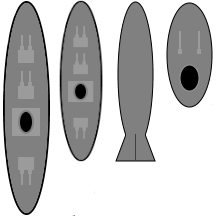
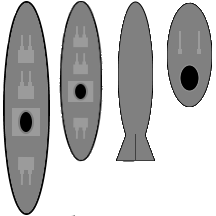
Add textures to ships

diff --git a/game_pieces/Ship.cpp b/game_pieces/Ship.cpp
@@ -1,3 +1,5 @@
+#pragma clang diagnostic push
+#pragma ide diagnostic ignored "cert-err58-cpp"
 //
 // Created by Mark on 2/16/2019.
 //
@@ -7,8 +9,17 @@
 
 #include "../include/Ship.h"
 
-RegionMap Ship::_regionMap = RegionMap(); // NOLINT(cert-err58-cpp)
+RegionMap Ship::_regionMap = RegionMap();
 int Ship::_shipID = 0;
+sf::Texture Ship::_shipTextures = sf::Texture();
+std::vector<sf::IntRect> Ship::_partitionedShipTextures =
+        {
+                sf::IntRect(54*3,0,54,54*2),
+                sf::IntRect(54,0,54,54*3),
+                sf::IntRect(54*2,0,54,54*3),
+                sf::IntRect(0,0,54,54*4),
+                sf::IntRect(0,0,54,54*4), //TODO: change when I get the other ship texture
+        };
 
 void Ship::_setShipPosition(sf::Vector2f pos)
 {
@@ -19,6 +30,9 @@ Ship::Ship(int xDim, int yDim) : _isHeld{false}, _hitsLeft(yDim),
             _startPosition{_regionMap.assignStartPosition(_shipID)}
 {
     _shipSprite.setSize(sf::Vector2f((xDim*54), (yDim*54)));
+
+    if (!_shipTextures.loadFromFile("../resources/ships.png")){}
+
     _setShipPosition(_startPosition);
     ++_shipID;
 }
@@ -109,3 +123,18 @@ void Ship::snapToGrid()
     }
 }
 
+sf::IntRect Ship::_assignTextureRect(int shipID)
+{
+    auto index = shipID % 5;
+    return _partitionedShipTextures[index];
+}
+
+void Ship::setSkin()
+{
+    sf::Rect textureRect = _assignTextureRect(_shipID-1);
+    _shipSprite.setTexture(&_shipTextures);
+    _shipSprite.setTextureRect(textureRect);
+}
+
+
+#pragma clang diagnostic pop

diff --git a/game_board/GUIBoard.cpp b/game_board/GUIBoard.cpp
@@ -24,10 +24,15 @@ GUIBoard::GUIBoard() : _pieceIsHeld{false}, _allShipsOnBoard{false}, _hasLost{fa
     _enemyBoard.setPosition(800.f,0.f);
 
     _ships.emplace_back(Ship(1, 2));
+    _ships.back().setSkin();
     _ships.emplace_back(Ship(1, 3));
+    _ships.back().setSkin();
     _ships.emplace_back(Ship(1, 3));
+    _ships.back().setSkin();
     _ships.emplace_back(Ship(1, 4));
+    _ships.back().setSkin();
     _ships.emplace_back(Ship(1, 5));
+    _ships.back().setSkin();
 
     _buttons.emplace_back(Button(100,50));
     _buttons.back().setSkin("lock-ship-button.png");

diff --git a/include/Ship.h b/include/Ship.h
@@ -34,9 +34,14 @@ public:
     void setHeld(bool);
 
     bool onBoard() const;
+
+    void setSkin();
 private:
     void _setShipPosition(sf::Vector2f);
     sf::RectangleShape _shipSprite;
+    static sf::Texture _shipTextures;
+    static std::vector<sf::IntRect> _partitionedShipTextures;
+    sf::IntRect _assignTextureRect(int);
     bool _isHeld;
     static RegionMap _regionMap;
     static int _shipID;
